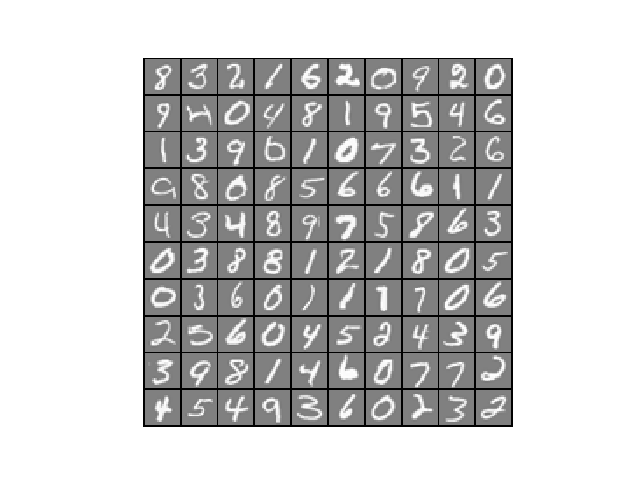
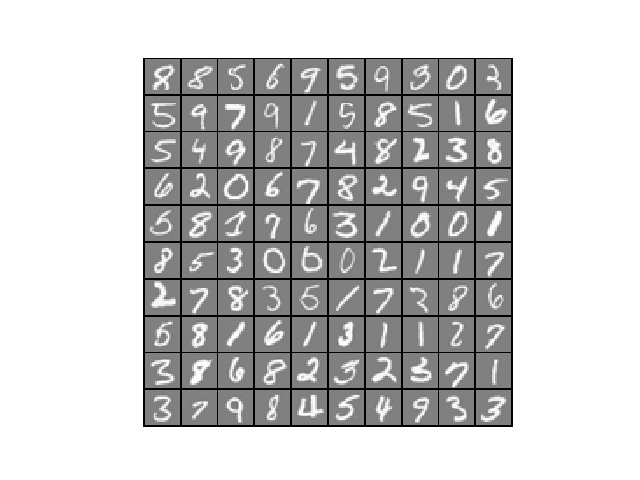
多分类和神经网络

Changed region(s): [[0.2188, 0.125, 0.8125, 0.875], [0.2188, 0.125, 0.4375, 0.1875]]

diff --git a/ml-ex3/myEx3/ex3.py b/ml-ex3/myEx3/ex3.py
@@ -23,6 +23,9 @@ import numpy as np
 import scipy.io as sio
 from displayData import displayData
 from matplotlib import pyplot as plt
+from lrCostFunction import lrCostFunction
+from oneVsAll import oneVsAll
+from predictOneVsAll import predictOneVsAll
 
 plt.ion()
 # Initialization
@@ -42,7 +45,10 @@ print('Loading and Visualizing Data ...\n')
 
 data = sio.loadmat('ex3data1.mat')  # training data stored in arrays X, y
 X = data['X']  # .mat文件里的数据时按照矩阵形式存的，且已命名好，直接用矩阵名取就好
-y = data['y']
+y = data['y']%10
+# np.set_printoptions(threshold=5000) #当array中的元素个数小于threshold时，元素会全部打印出来，而不是用省略号代替
+# print(y==1)
+# print(1-(y==1))
 m = X.shape[0]  # 5000
 rand_indices = np.random.permutation(m)  # permutation对5000个数字洗牌打乱顺序，然后返回打乱后的新数组，不改变原数组
 
@@ -51,9 +57,9 @@ sel = X[rand_indices[0:100]]
 
 displayData(sel)
 
-print('Program paused. Press enter to continue.\n')
+input('Program paused. Press enter to continue.\n')
 
-# ============ Part 2a: Vectorize Logistic Regression ============
+# ============ Part 2a: Vectorize Logistic Regression ============  #未实现
 #  In this part of the exercise, you will reuse your logistic regression
 #  code from the last exercise. You task here is to make sure that your
 #  regularized logistic regression implementation is vectorized. After
@@ -64,34 +70,34 @@ print('Program paused. Press enter to continue.\n')
 # Test case for lrCostFunction
 # print('\nTesting lrCostFunction() with regularization')
 #
-# theta_t = [-2  -1  1  2]
-# X_t = [ones(5,1) reshape(1:15,5,3)/10]
-# y_t = ([1 0 1 0 1] >= 0.5)
+# theta_t = [-2, -1, 1, 2]
+# X_t = [np.ones(5,1) reshape(1:15,5,3)/10]
+# y_t = [1, 0, 1, 0, 1]
 # lambda_t = 3
-# [J grad] = lrCostFunction(theta_t, X_t, y_t, lambda_t)
+# J, grad = lrCostFunction(theta_t, X_t, y_t, lambda_t)
 #
-# print('\nCost: #f\n', J)
+# print('\nCost: \n', J)
 # print('Expected cost: 2.534819\n')
 # print('Gradients:\n')
 # print(' #f \n', grad)
 # print('Expected gradients:\n')
 # print(' 0.146561\n -0.548558\n 0.724722\n 1.398003\n')
 #
-# print('Program paused. Press enter to continue.\n')
-# pause
+# input('Program paused. Press enter to continue.\n')
 # ## ============ Part 2b: One-vs-All Training ============
-# print('\nTraining One-vs-All Logistic Regression...\n')
-#
-# lambda = 0.1
-# [all_theta] = oneVsAll(X, y, num_labels, lambda)
-#
-# print('Program paused. Press enter to continue.\n')
-# pause
-#
-#
-# ## ================ Part 3: Predict for One-Vs-All ================
-#
-# pred = predictOneVsAll(all_theta, X)
-#
-# print('\nTraining Set Accuracy: #f\n', mean(double(pred == y)) * 100)
+print('\nTraining One-vs-All Logistic Regression...\n')
+
+_lambda = 0.1
+all_theta = oneVsAll(X, y, num_labels, _lambda)
+
+
+input('Program paused. Press enter to continue.\n')
+
+
+## ================ Part 3: Predict for One-Vs-All ================
+
+pred = predictOneVsAll(all_theta, X)
+
+print('\nTraining Set Accuracy: \n', np.mean(np.double(pred == y.T)) * 100)
+
 

diff --git a/ml-ex3/myEx3/oneVsAll.py b/ml-ex3/myEx3/oneVsAll.py
@@ -1,0 +1,25 @@
+# coding=utf-8
+
+from lrCostFunction import lrCostFunction
+import numpy as np
+from scipy.optimize import minimize
+
+
+def oneVsAll(X, y, num_labels, _lambda):
+
+    m, n = X.shape
+
+    # You need to return the following variables correctly
+    all_theta = np.zeros((num_labels, n+1))
+
+    # Add ones to the X data matrix
+    X = np.vstack((np.ones(m), X.T)).T
+    y = y.reshape(-1, 1)
+
+    initial_theta = np.zeros(n + 1)
+
+    for c in range(num_labels):
+        res = minimize(lrCostFunction, initial_theta, method='CG', jac=True, options={'maxiter': 50}, args=(X, y == c, _lambda))
+        # 对每一种标签（0~10）循环与y进行比较，看y对应的5000个训练实例和当前标签c是否相等，即是否属于该标签类，返回True（1）或者False（0），就变成了二分类的问题
+        all_theta[c] = res.x
+    return all_theta

diff --git a/ml-ex3/myEx3/lrCostFunction.py b/ml-ex3/myEx3/lrCostFunction.py
@@ -1,0 +1,15 @@
+# coding=utf-8
+import numpy as np
+from sigmoid import sigmoid
+
+
+def lrCostFunction(theta, X, y, _lambda):
+    theta = theta.reshape(-1, 1)  # 变成列向量
+    _theta = np.copy(theta)  # !!! important, don't use reference
+    _theta[0, 0] = 0
+    m = len(y)  # number of training sets
+    s = sigmoid(np.dot(X, theta))
+    J = -(np.dot(y.T ,np.log(s)) + np.dot((1-y).T, np.log(1-s)))/m +\
+        _lambda*np.dot(_theta.T, _theta)/(2*m)
+    grad = np.dot(X.T, (s - y)) / m + _lambda * _theta / m
+    return J[0], grad.reshape(1, -1)[0]

diff --git a/ml-ex3/myEx3/predictOneVsAll.py b/ml-ex3/myEx3/predictOneVsAll.py
@@ -1,0 +1,8 @@
+import numpy as np
+from sigmoid import sigmoid
+
+def predictOneVsAll(theta, X):
+    m, n = X.shape
+    X = np.vstack((np.ones(m), X.T)).T
+    prediction = sigmoid(np.dot(theta, X.T))
+    return np.argmax(prediction, axis=0)

diff --git a/ml-ex3/myEx3/displayData.py b/ml-ex3/myEx3/displayData.py
@@ -54,4 +54,4 @@ def displayData(X, example_width=None):
     # Do not show axis
     plt.axis('off')
     plt.savefig('showExamples.png')
-    input()
+

diff --git a/ml-ex3/myEx3/sigmoid.py b/ml-ex3/myEx3/sigmoid.py
@@ -1,0 +1,5 @@
+import numpy as np
+
+
+def sigmoid(z):
+    return 1 / (1 + np.exp(-z))
